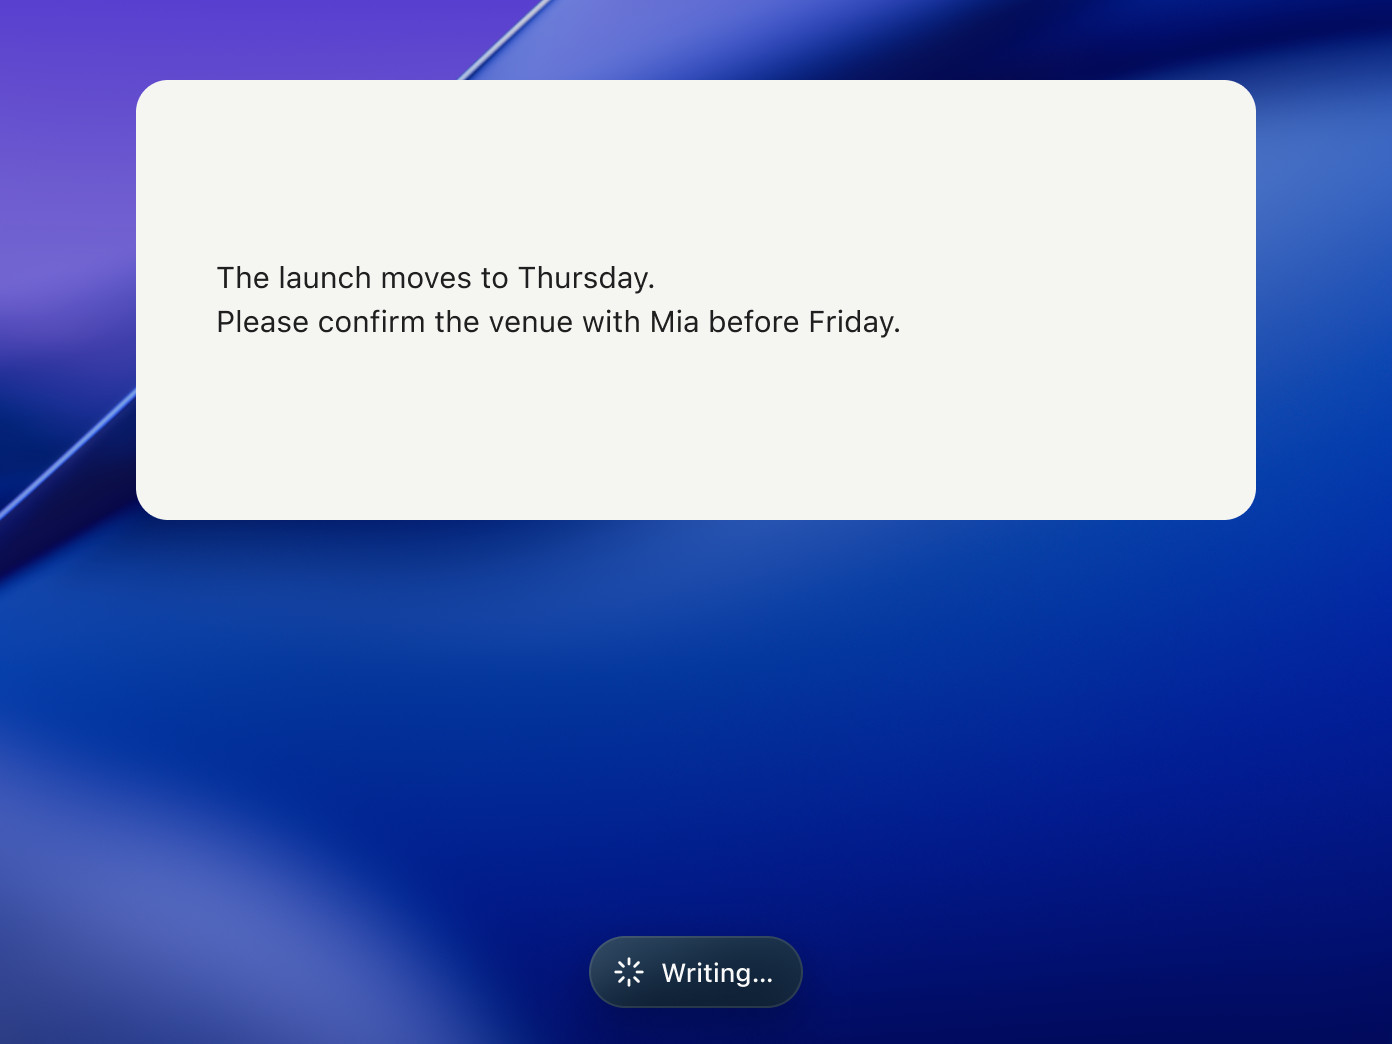
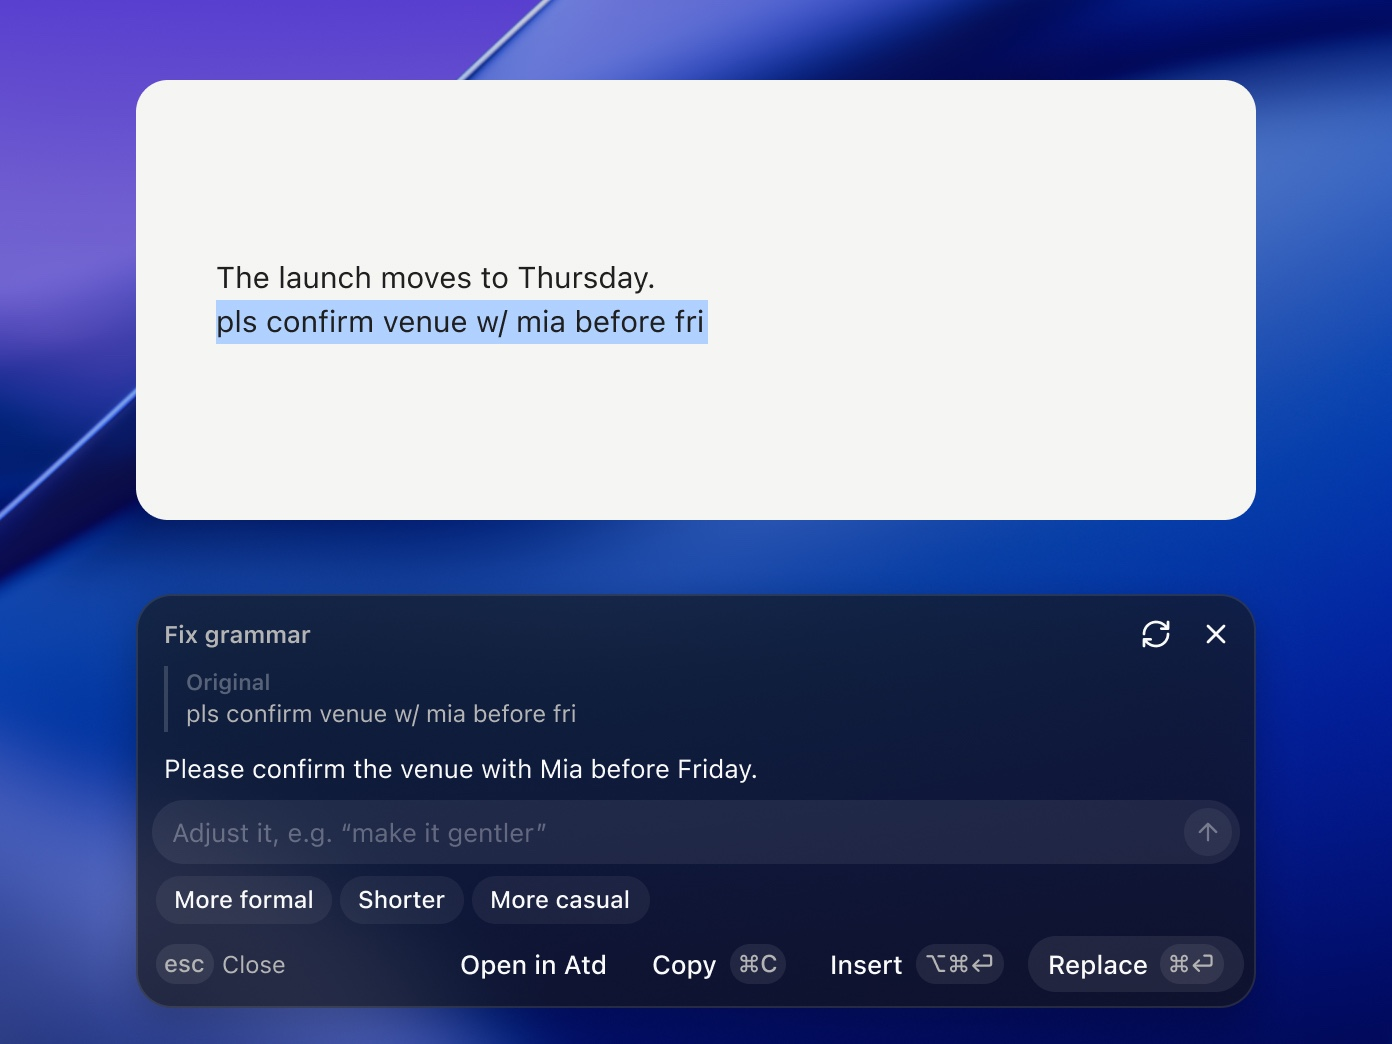
docs: refresh README interface previews

diff --git a/README.md b/README.md
@@ -75,10 +75,20 @@ These previews are cropped from **1440 × 900** interface scenes in the UI desig
 
 ### In place
 
-| Selection toolbar                                                                                                                                                                                                                                            | Write-back                                                                                                                                                                   |
-| ------------------------------------------------------------------------------------------------------------------------------------------------------------------------------------------------------------------------------------------------------------ | ---------------------------------------------------------------------------------------------------------------------------------------------------------------------------- |
-| [![Selection toolbar above selected text, with Fix grammar's options open: show in the conversation, replace the selected text, insert after it, insert at the cursor, or copy](.github/readme/selection-toolbar.jpg)](.github/readme/selection-toolbar.jpg) | [![A draft line rewritten in place by a command, with the command island at the bottom of the screen writing](.github/readme/write-back.jpg)](.github/readme/write-back.jpg) |
-| Ask or run a command from a text selection, and choose where its answer goes.                                                                                                                                                                                | Run a command from its shortcut and the answer replaces the selection in place.                                                                                              |
+<table>
+  <tr>
+    <th width="50%">Selection toolbar</th>
+    <th width="50%">Write-back</th>
+  </tr>
+  <tr>
+    <td width="50%"><a href=".github/readme/selection-toolbar.jpg"><img src=".github/readme/selection-toolbar.jpg" width="100%" alt="Selection toolbar above selected text, with Fix grammar's answer destinations open" /></a></td>
+    <td width="50%"><a href=".github/readme/write-back.jpg"><img src=".github/readme/write-back.jpg" width="100%" alt="Selected draft text above a Fix grammar review card, with the original, rewritten answer, adjustment suggestions, and Insert and Replace actions" /></a></td>
+  </tr>
+  <tr>
+    <td>Ask or run a command from a text selection, and choose where its answer goes.</td>
+    <td>Review and refine the answer, then replace the selection or insert it after the original.</td>
+  </tr>
+</table>
 
 [![Screenshot of a report with arrows, step numbers, a note, a mosaic, and the annotation toolbar](.github/readme/screenshot.jpg)](.github/readme/screenshot.jpg)
 
@@ -86,10 +96,20 @@ _Screenshot tool: capture an area and mark the details that matter._
 
 ### Panel and conversation
 
-| Conversation                                                                                                                                | Mini Panel                                                                                                                                                                                  |
-| ------------------------------------------------------------------------------------------------------------------------------------------- | ------------------------------------------------------------------------------------------------------------------------------------------------------------------------------------------- |
-| [![Conversation with a follow-up message, tool activity, response actions, and composer](.github/readme/chat.jpg)](.github/readme/chat.jpg) | [![Mini Panel at the edge of the screen with Active tasks open: a file write waiting for approval and two tasks in progress](.github/readme/mini-panel.jpg)](.github/readme/mini-panel.jpg) |
-| Read the result and keep working in the same task.                                                                                          | Follow running tasks and answer approvals from the edge of the screen.                                                                                                                      |
+<table>
+  <tr>
+    <th width="50%">Conversation</th>
+    <th width="50%">Mini Panel</th>
+  </tr>
+  <tr>
+    <td width="50%"><a href=".github/readme/chat.jpg"><img src=".github/readme/chat.jpg" width="100%" alt="Conversation with a follow-up message, tool activity, response actions, and composer" /></a></td>
+    <td width="50%"><a href=".github/readme/mini-panel.jpg"><img src=".github/readme/mini-panel.jpg" width="100%" alt="Mini Panel with Active tasks open: a file write waiting for approval and two tasks in progress" /></a></td>
+  </tr>
+  <tr>
+    <td>Read the result and keep working in the same task.</td>
+    <td>Follow running tasks and answer approvals from the edge of the screen.</td>
+  </tr>
+</table>
 
 ### Apps and connections
 

diff --git a/apps/website/public/cases/README.md b/apps/website/public/cases/README.md
@@ -73,12 +73,29 @@ The repository README shows crops of these scenes, exported at 2× from the same
 [`.github/readme/`](../../../../.github/readme/); they leave the scene files here untouched. Images
 the README pairs in a table share one crop size (selection toolbar and write-back 1392 × 1044,
 conversation and Mini Panel 1072 × 1428, the Mini Panel's taking the conversation's box at the
-screen's right edge), so GitHub splits the table evenly and both show at one height; the full-width
-crops share a 1.6:1 ratio. On
+screen's right edge). The README uses explicit 50% columns and full-width images so differing
+caption lengths cannot give the paired images different display heights. The full-width crops
+share a 1.6:1 ratio. On
 2026-11-04 the main panel and conversation scenes took the current panel: the 52 pt unified title
 bar with the native traffic lights, and the new task's quick commands with All commands, Create app
 and My apps (from `AP1.01`, `1866:106317`). Their flat exports here were refreshed; their layer
 sheets below predate it.
+
+On 2026-11-06 the README main-panel preview adopted the translucent keycap styling from
+`App / Kbd · Rhea` (`3739:74611`). The write-back preview now shows the connected review card
+(`3578:71891`, scene instance `3796:215483`): the original draft remains selected in its source
+app while the polished answer waits for review, adjustment, insertion or replacement. Its labels
+match the native English UI. The archived PNG and animation layers retain their earlier Writing
+state; they are not the current README preview.
+
+For these two README exports, export the complete scene at 2× before cropping, preserving the
+desktop wallpaper and glass backdrop. Crop coordinates below are in the 1440 × 900 scene; double
+them for the exported pixels. The matching Figma slices record the same bounds.
+
+| README image     | Scene         | Slice         | Crop x, y, width, height | Output pixels |
+| ---------------- | ------------- | ------------- | ------------------------ | ------------- |
+| `main-panel.jpg` | `2462:143430` | `3796:215560` | 298, 108, 1142, 714      | 2284 × 1428   |
+| `write-back.jpg` | `2823:164824` | `3796:215561` | 372, 300, 696, 522       | 1392 × 1044   |
 
 The 0.10.0 refresh uses the current connected task-activity and provider editor components. The
 Mini Panel shows two running tasks and a synthetic approval request to write `release-notes.md`;
@@ -89,7 +106,7 @@ the product translations, and sign-in stays disabled until consent is given.
 The selection scene's toolbar is the `Content=With options` variant: Fix grammar is a split button
 whose chevron has opened its answer destinations (`App / Toolbar options menu`, cloned from the
 review frame, 4 pt below the capsule), with Replace the selected text as the saved choice. The
-write-back scene reuses the same source page with a context line and a rough draft line that is
+archived write-back PNG and animation layers reuse the same source page with a context line and a rough draft line that is
 selected; the answer (`Written answer`, a frame in the page color over the draft) has replaced it,
 and the island at the bottom center, its bottom edge at y = 804 like the island review frames,
 is writing: its ambient glow, spinner and Writing… label. Its sheet cuts those three into layers
